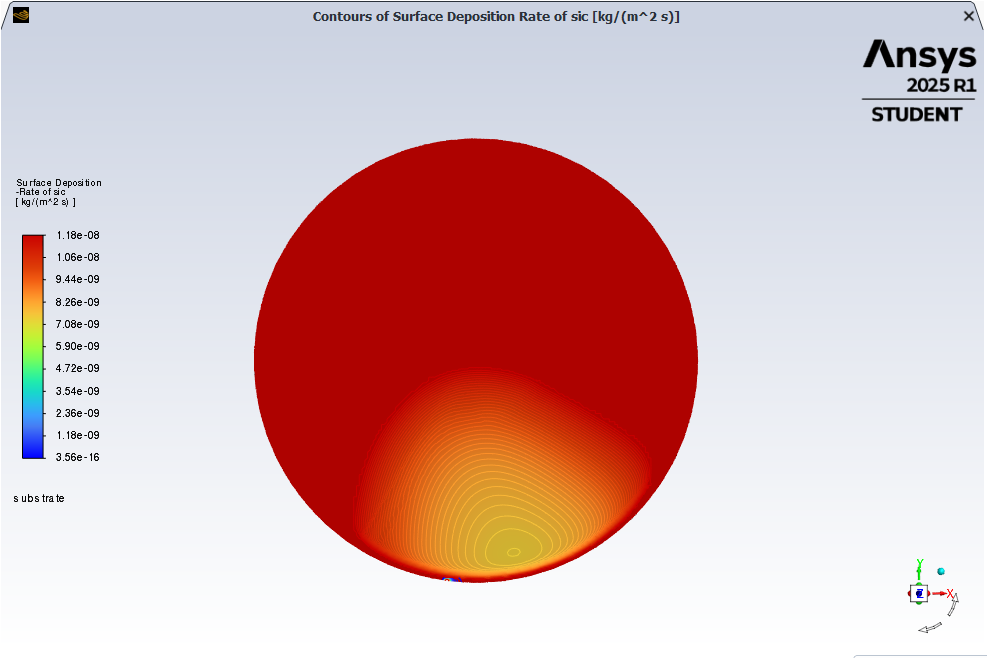
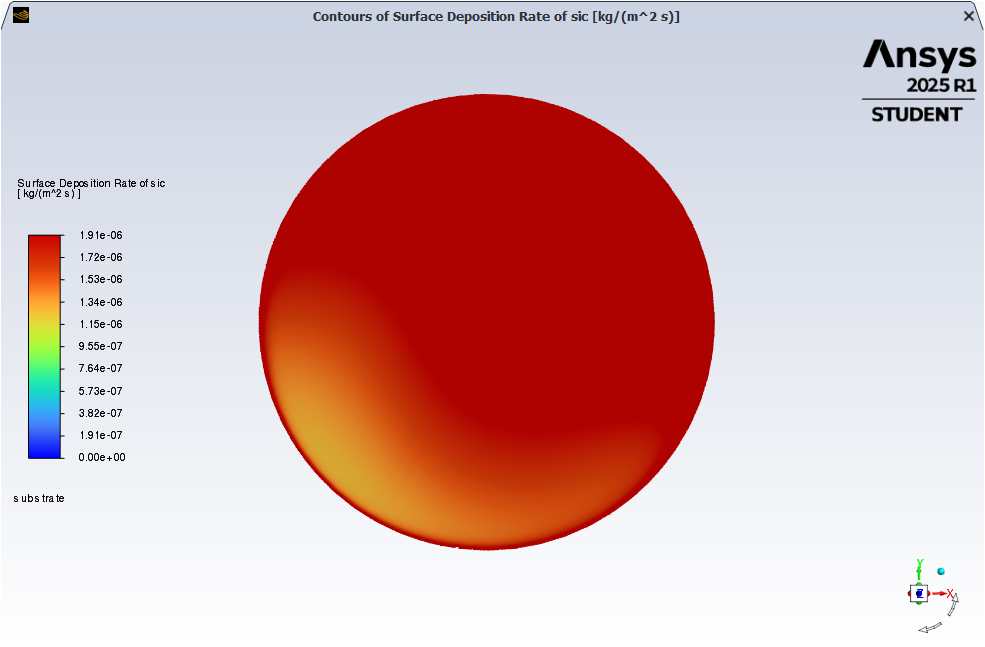
les

diff --git a/content/research/index.html b/content/research/index.html
@@ -116,7 +116,7 @@
 					<img class="card-img-top" style="width: 100%; height: 320px;" src="image/cvd_sic.gif"
 						alt="CVD coasting on substrate surface">
 					<div class="card-body">
-						<h4 class="card-title">CFD on chemical vapor deposition (CVD) for SiC coating growth with
+						<h4 class="card-title">LES on chemical vapor deposition (CVD) for SiC coating growth with
 							surface chemical reaction</h4>
 						<p class="card-text">ANSYS Fluent 2025 R1 + OpenFOAM-v2412 was used to perform the CVD
 							simulations.</p>
@@ -132,8 +132,9 @@
 				<div class="modal-dialog modal-dialog-centered modal-dialog-scrollable" aria-roledescription="document">
 					<div class="modal-content">
 						<div class="modal-header">
-							<h5 class="modal-title" id="cvdSiCLabel">CFD on chemical vapor deposition (CVD) for SiC
-								coating growth with surface chemical reaction</h5>
+							<h5 class="modal-title" id="cvdSiCLabel">CFD using large eddy simulation (LES) on chemical
+								vapor deposition (CVD) for SiC coating growth with surface chemical reaction in a hot
+								wall reactor</h5>
 							<button type="button" class="btn-close" data-bs-dismiss="modal" aria-label="Close"></button>
 						</div>
 						<div class="modal-body row">
@@ -144,13 +145,13 @@
 								performance in extreme conditions. The CFD coupled with gas phase and surface chemical
 								reactions including was employed to do the CVD simulations.
 							</p>
-							<p>The CFD and chemical reaction solver was employed based on ANSYS Fluent 2025 R1 and
-								OpenFOAM-v2412 is used to generate the mesh. The methyltrichlorosilane CH3SiCL3 (MTS)
-								with hydrogen H2 system was used in the SiC-CVD process. The corresponding chemical
-								reactions as gas phase: CH3SiCL3 pyrolysis as 0.5C2H2 + 0.5H2 + HCL + SiCL2 and CH3SiCL3
-								+ H2 combination as CH4 + HCL + SiCL2, and solid surface: C2H2 + 2SiCL2 + H2 combination
-								as 2SiC (solid) + 4HCL. In the simulation, the system pressure is under 10000 Pa and
-								1002.15 K. The substrate temperature is 1200 K.
+							<p>The CFD with LES and chemical reaction solver was employed based on ANSYS Fluent 2025 R1
+								and OpenFOAM-v2412 is used to generate the mesh. The methyltrichlorosilane CH3SiCL3
+								(MTS) with hydrogen H2 system was used in the SiC-CVD process. The corresponding
+								chemical reactions as gas phase: CH3SiCL3 -> 0.5C2H2 + 0.5H2 + HCL + SiCL2 and CH3SiCL3
+								+ H2 -> CH4 + HCL + SiCL2, and wafer solid surface: C2H2 + 2SiCL2 + H2 -> 2SiC (solid) +
+								4HCL. In the simulation, the system pressure is under 10000 Pa and 1002.15 K.
+								The wafer surface temperature is 1200 K.
 							</p>
 							<p>In the animation, the SiC gradually covers the substrate surface and growths. The CFD
 								simulation can help understanding these SiC coating process and the operation systems
